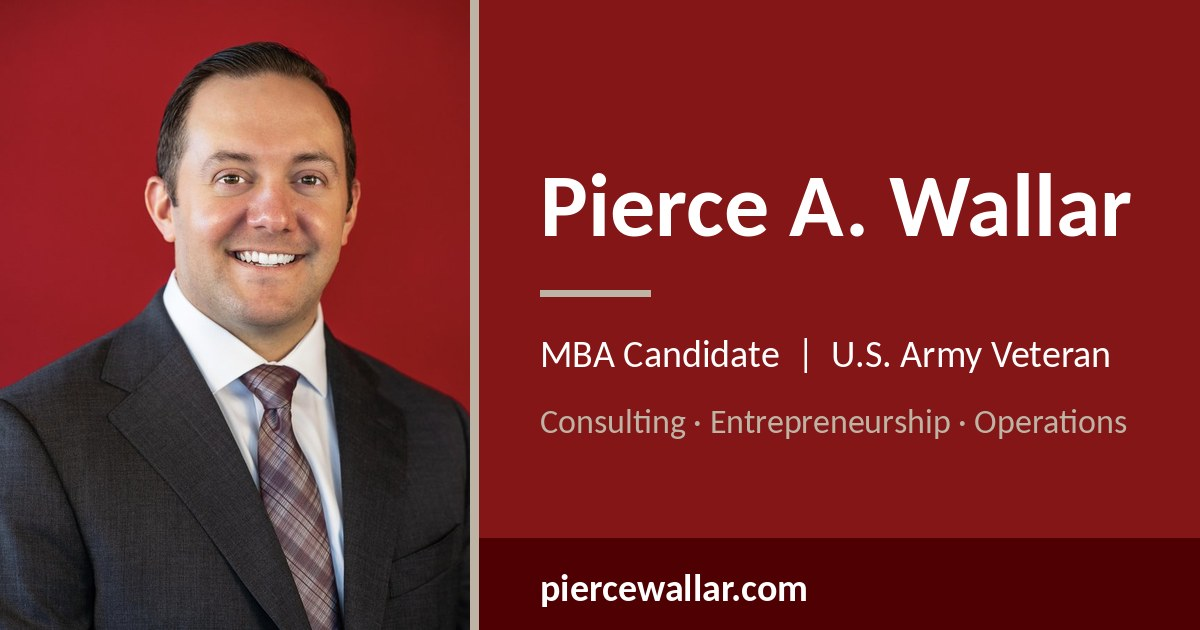
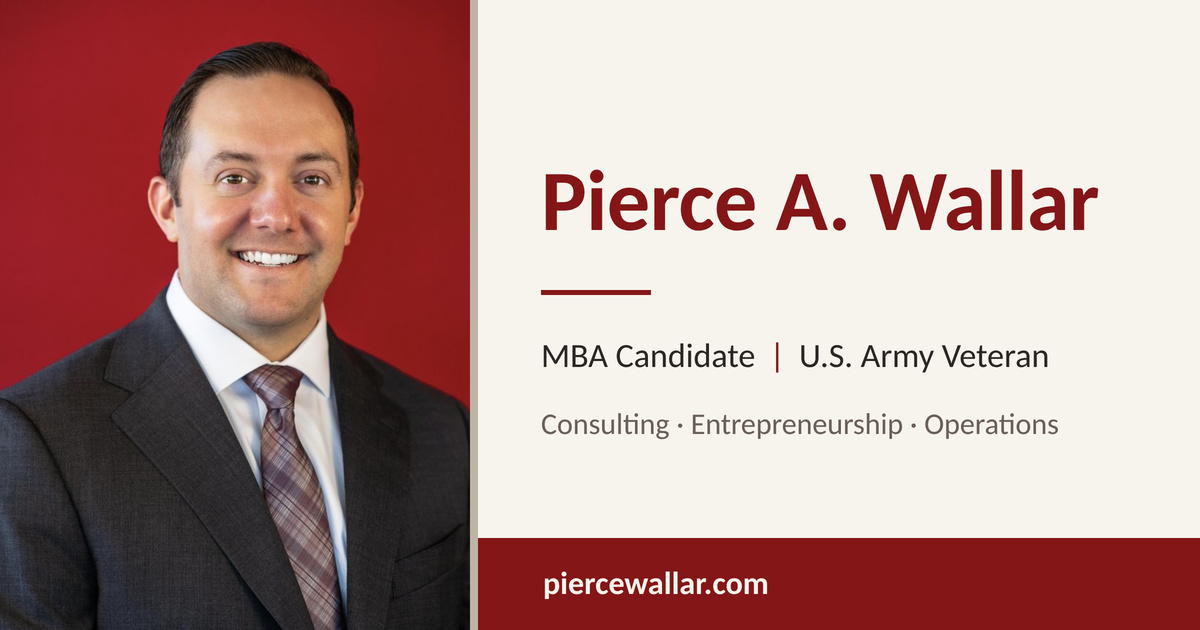
OG Asset Updated

diff --git a/index.html b/index.html
@@ -3,8 +3,8 @@
 <head>
   <meta charset="UTF-8"/>
   <meta name="viewport" content="width=device-width, initial-scale=1"/>
-  <title>Pierce A. Wallar | MBA Candidate, Army Veteran, Founder</title>
-  <meta name="description" content="Personal site of Pierce A. Wallar: MBA candidate at the University of Oklahoma, U.S. Army veteran, and founder of BoomTown Home Services."/>
+  <title>Pierce A. Wallar | MBA Candidate, Army Veteran, Dad</title>
+  <meta name="description" content="Personal site of Pierce Wallar: MBA candidate at the University of Oklahoma and U.S. Army veteran"/>
   <script>
     /* Starts in light mode; uses dark only if the visitor chose it before. */
     (function () {
@@ -27,8 +27,8 @@
   <link rel="canonical" href="https://piercewallar.com/">
   <meta name="robots" content="index, follow">
   <meta property="og:type" content="website">
-  <meta property="og:title" content="Pierce A. Wallar | MBA Candidate, Army Veteran, Founder">
-  <meta property="og:description" content="Personal site of Pierce A. Wallar: MBA candidate at the University of Oklahoma, U.S. Army veteran, and founder of BoomTown Home Services.">
+  <meta property="og:title" content="Pierce A. Wallar | MBA Candidate, Army Veteran, Dad">
+  <meta property="og:description" content="Personal site of Pierce Wallar: MBA candidate at the University of Oklahoma and U.S. Army veteran">
      <meta property="og:url" content="https://piercewallar.com/">
      <meta property="og:site_name" content="Pierce A. Wallar">
      <meta property="og:image" content="https://piercewallar.com/assets/images/og-image.jpg">

diff --git a/TASKS.md b/TASKS.md
@@ -7,7 +7,7 @@ The hard launch target is January 6, 2027, about nine weeks out. The order matte
 
 1. [x] **One review pass on three pages (done 11/3/26; Pierce confirmed all wording as is, no page edits, consistency check passes):** `project-green-tree.html`, `project-army-forecast.html` and `project-boomtown.html`. Confirm or correct: Green Tree (removal of the brand claim, the cyber-policy growth 2014 to 2019 analog wording, the public-market-multiples valuation sentence, the "not launched" status); Army forecast (the combat training center is left unnamed, the operations sergeant major appears by role only, "as far as I know it was still in use," and the kanban and "first in its Brigade" lines were removed from the forecast page; the Experience page and CV still say "first in the brigade" on purpose, confirmed 11/2/26); BoomTown (the subtitle "where I own strategy, operations, and delivery from end to end," the Scale and Status facts, and "website live February 2025"). If any Green Tree wording changes, update `data/career.json` and the CV and Resume so they still match. Already confirmed in the Experience deep dive on 11/2/26: the Green Tree "not launched" status and "website live February 2025" for BoomTown
 2. [ ] **LinkedIn sync**: blocked until the LinkedIn data export arrives (requested 11/2/26; expected by 11/3/26). Then see Due soon
-3. [ ] **Open Graph (OG) card update** (added 11/2/26): the social preview image is `assets/images/og-image.jpg` (1200 x 630) and is referenced by `og:image` in 16 pages. Decide the change (new image, wording, or both) at the start of the next session; if the file name stays the same, no HTML edits are needed. Then refresh LinkedIn's cached preview with Post Inspector (see Launch checks)
+3. [ ] **Open Graph (OG) card update** (added 11/2/26; built 11/3/26, only the Post Inspector refresh is left): `assets/images/og-image.jpg` (1200 x 630, same file name, so no HTML edits) was rebuilt with an off-white right panel, crimson text and a Stone (`#BEB4A5`) divider. The homepage `<title>` and `og:title` now read "Pierce A. Wallar | MBA Candidate, Army Veteran, Dad", and the `meta description`, `og:description` and `site.webmanifest` description read "Personal site of Pierce Wallar: MBA candidate at the University of Oklahoma and U.S. Army veteran". The JSON-LD `jobTitle` ("Founder") comes from `career.json` and was left as is. After pushing, refresh LinkedIn's cached preview with Post Inspector (see Launch checks). Optional: the headshot source is only 900 px square; with a larger original the card could be rebuilt at 2400 x 1260 (the `og:image:width` and `height` tags in 16 pages would then change)
 4. [ ] **Basic website check** (moved up from Due soon 11/2/26; it does not depend on the LinkedIn sync): every page, links, meta tags, accessibility basics, and a "what is missing" list, including a short privacy page (the site uses GoatCounter analytics)
 
 ## Due soon (after this week)
